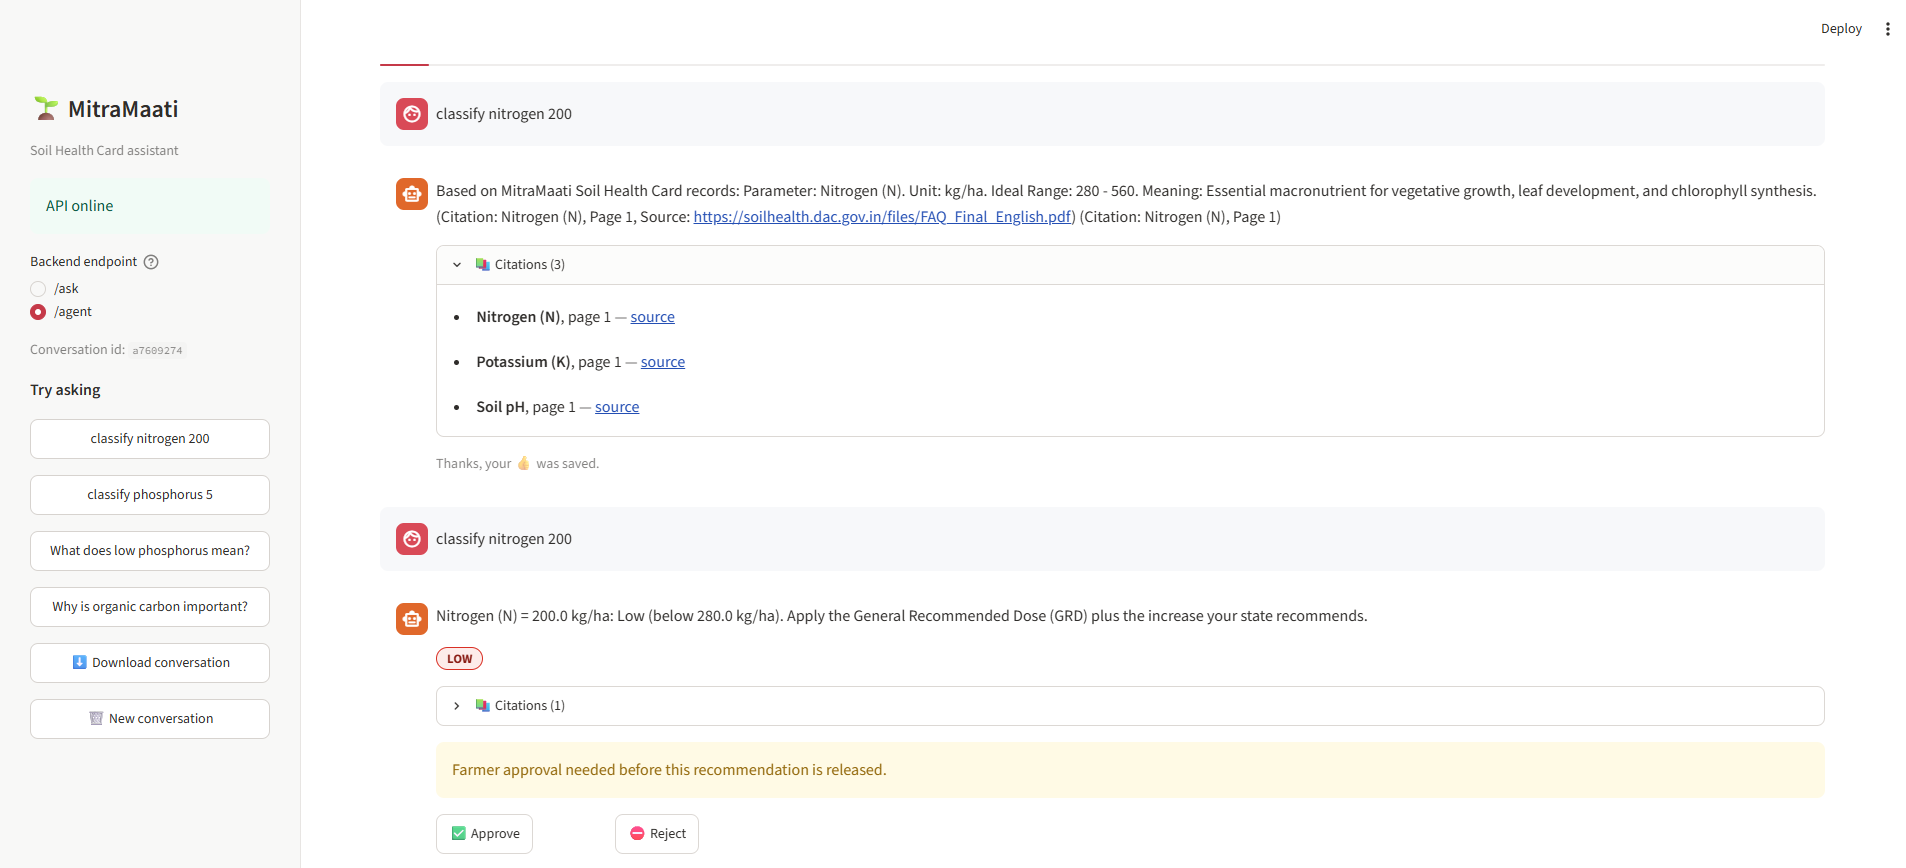
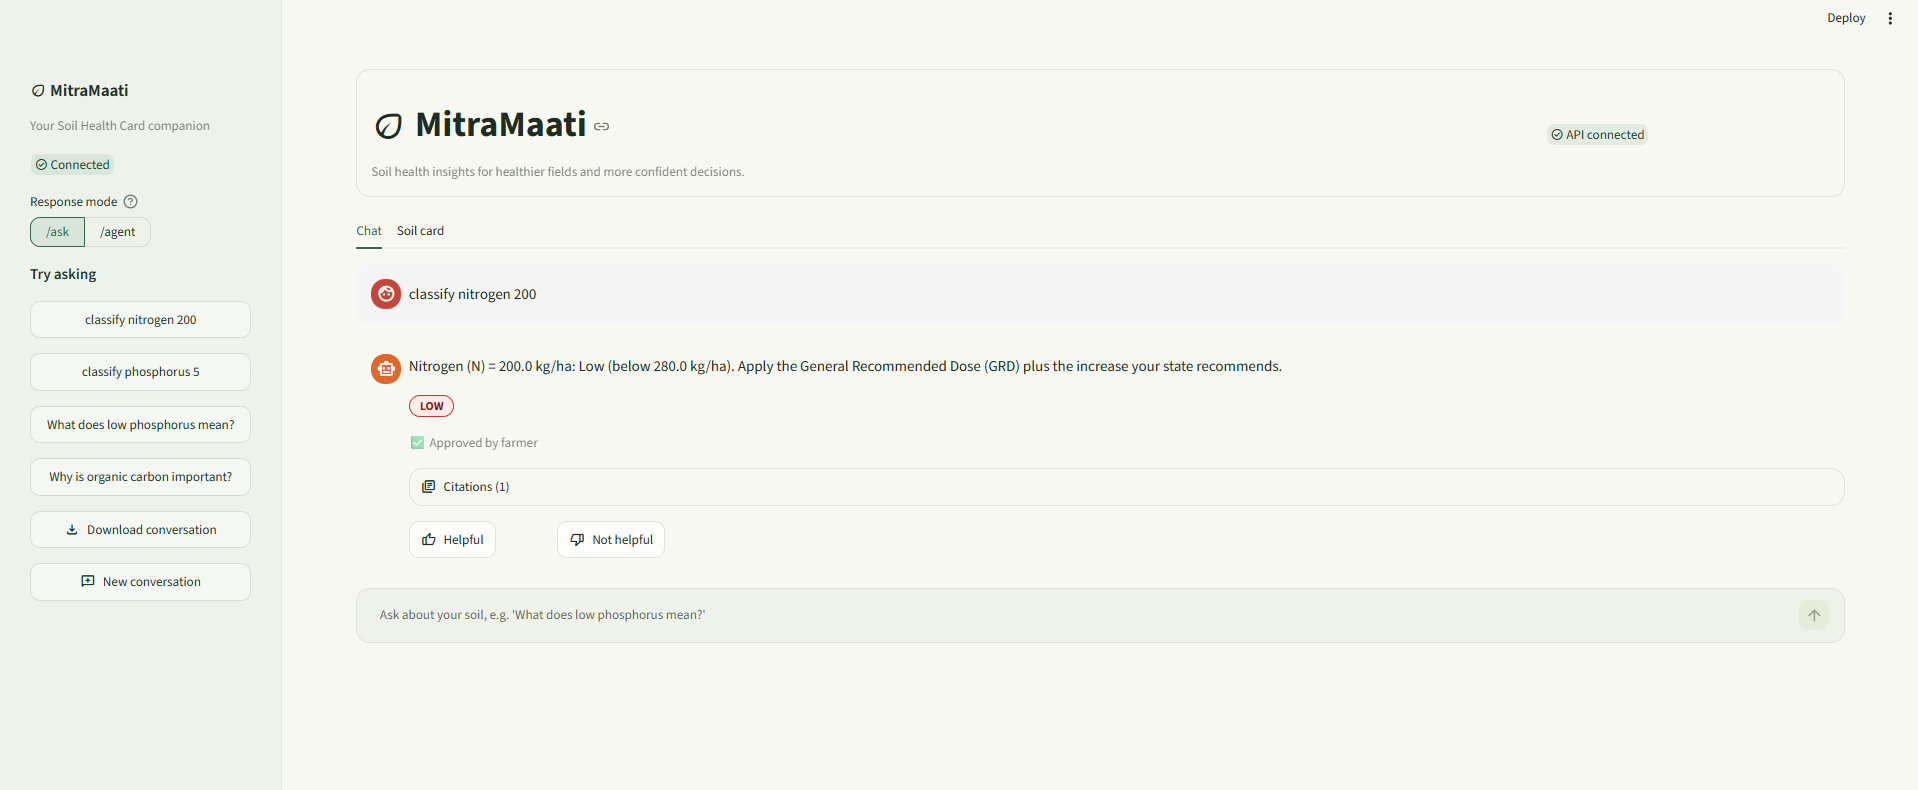
docs: refresh README UI screenshots

diff --git a/README.md b/README.md
@@ -101,8 +101,9 @@ An automated evaluation runner (`eval/run_eval.py`) was executed against the pro
 - **Farmer approval:** in `/agent` mode a Low/High reading pauses the graph (`interrupt()`); the farmer presses Approve or Reject and the graph resumes on the same `thread_id`.
 - **Traffic-light soil card:** type the 12 Soil Health Card values (or load a sample field); each appears as a red (Low), yellow (Medium) or green (High) tile with a one-line meaning, the dose advice and its source (`POST /soil-card`, which runs `classify_soil_card`). Includes summary counts, a status filter and CSV download.
 
-![Chat with citations and approval](docs/ui_chat.png)
-![Traffic-light soil card](docs/ui_soil_card.png)
+![MitraMaati chat showing a soil classification response](docs/ui_chat.png)
+![Soil card form with the 12 parameter input fields](docs/ui_soil_card_input.png)
+![Traffic-light soil card showing all 12 parameter assessments](docs/ui_soil_card.png)
 
 **Self-check:** `python check_day10.py` verifies files, tests, API endpoints and that the UI loads.
 
@@ -114,8 +115,6 @@ Enter your 12 Soil Health Card (SHC) parameter values to get an instant color-co
 - **Red (Low):** GRD plus the state-specified increase
 
 Each tile displays a plain-language meaning alongside the exact cited document page.
-
-![MitraMaati Traffic-Light Soil Card Screenshot](docs/ui_soil_card.png)
 
 ---
 
